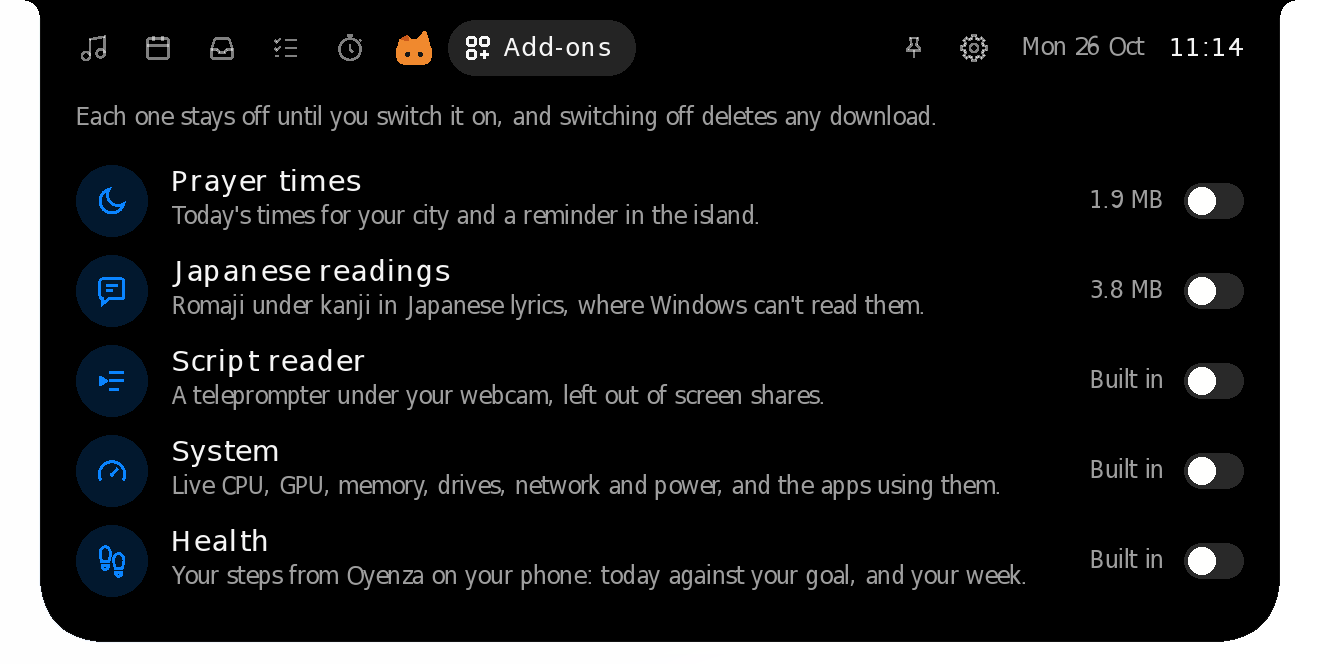
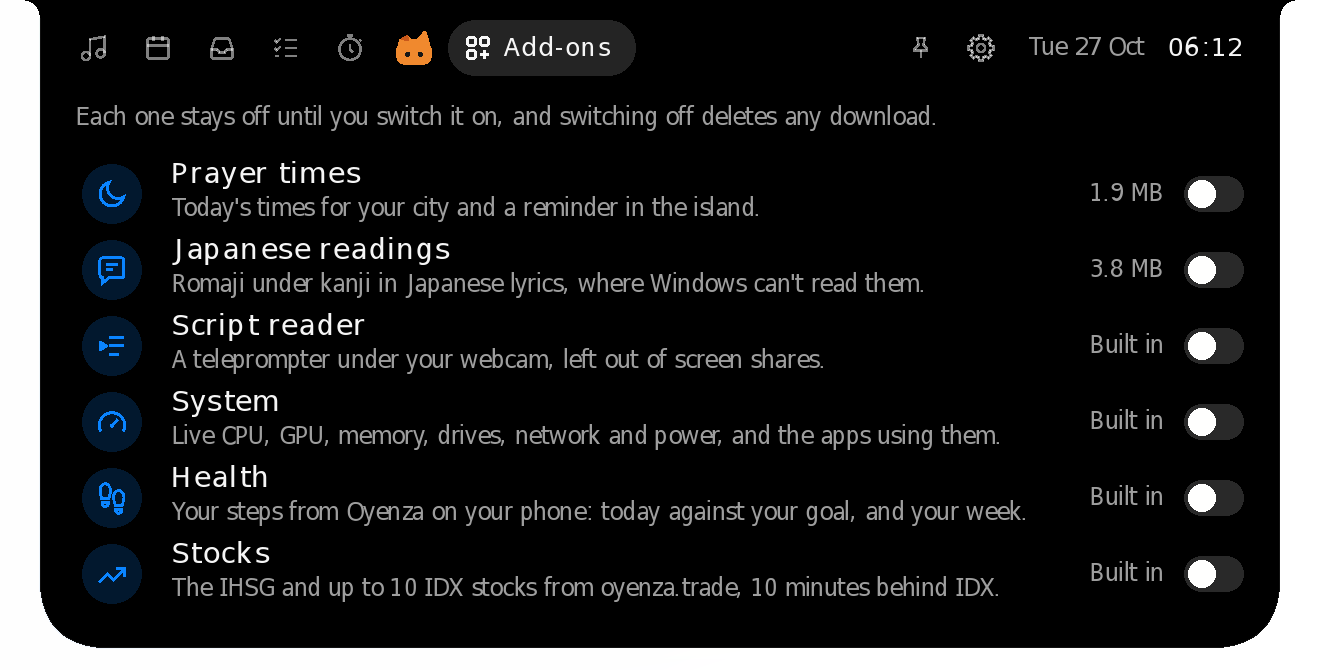
Release 0.2.11 (#136)
Version 0.2.11 in the seven version files, docs/release-notes/v0.2.11.md,
and the website: New in 0.2.11 with Stocks first, the hero line, the
fallback version and sizes (2.7 MB, 4.6 MB), a Stocks chapter with its
sidebar item (the sidebar's New tag moves there from Script reader, new in
0.2.1) and the Stocks page from main's own Mac renders (c0b64c7), Stocks
among the Add-ons chapter's built-in ones with both Add-ons pictures
retaken (200 % Wine self-test of main's own CI poni.exe), and a Stocks row
in Windows and Mac. tools/site_shots.py keeps the Mac Stocks page.

diff --git a/site/index.html b/site/index.html
@@ -589,6 +589,7 @@ dialog.more-sheet::backdrop { background: rgba(0, 0, 0, 0.42); -webkit-backdrop-
   <symbol id="i-clip" viewBox="0 0 24 24"><rect x="8" y="2.5" width="8" height="4" rx="1"/><path d="M16 4.5h2a2 2 0 0 1 2 2v13a2 2 0 0 1-2 2H6a2 2 0 0 1-2-2v-13a2 2 0 0 1 2-2h2"/></symbol>
   <symbol id="i-cal" viewBox="0 0 24 24"><rect x="3.5" y="5" width="17" height="15.5" rx="2.5"/><path d="M8 3v4M16 3v4M3.5 10h17"/></symbol>
   <symbol id="i-gauge" viewBox="0 0 24 24"><path d="m12 14 4-4"/><path d="M3.8 18.5a9.5 9.5 0 1 1 16.4 0"/></symbol>
+  <symbol id="i-stocks" viewBox="0 0 24 24"><path d="M3.5 17.5l5.5-5.5 4 4 7.5-7.5"/><path d="M15 8.5h5.5V14"/></symbol>
   <symbol id="i-gear" viewBox="0 0 24 24"><circle cx="12" cy="12" r="3"/><path d="M19.4 15a1.65 1.65 0 0 0 .33 1.82l.06.06a2 2 0 1 1-2.83 2.83l-.06-.06a1.65 1.65 0 0 0-1.82-.33 1.65 1.65 0 0 0-1 1.51V21a2 2 0 1 1-4 0v-.09A1.65 1.65 0 0 0 9 19.4a1.65 1.65 0 0 0-1.82.33l-.06.06a2 2 0 1 1-2.83-2.83l.06-.06A1.65 1.65 0 0 0 4.68 15a1.65 1.65 0 0 0-1.51-1H3a2 2 0 1 1 0-4h.09A1.65 1.65 0 0 0 4.6 9a1.65 1.65 0 0 0-.33-1.82l-.06-.06a2 2 0 1 1 2.83-2.83l.06.06A1.65 1.65 0 0 0 9 4.68a1.65 1.65 0 0 0 1-1.51V3a2 2 0 1 1 4 0v.09a1.65 1.65 0 0 0 1 1.51 1.65 1.65 0 0 0 1.82-.33l.06-.06a2 2 0 1 1 2.83 2.83l-.06.06A1.65 1.65 0 0 0 19.4 9a1.65 1.65 0 0 0 1.51 1H21a2 2 0 1 1 0 4h-.09a1.65 1.65 0 0 0-1.51 1z"/></symbol>
   <symbol id="i-phone" viewBox="0 0 24 24"><rect x="6" y="2.5" width="12" height="19" rx="3"/><path d="M11 18.5h2"/></symbol>
   <symbol id="i-waves" viewBox="0 0 24 24"><circle cx="12" cy="12" r="2"/><path d="M8 8a5.6 5.6 0 0 0 0 8M16 8a5.6 5.6 0 0 1 0 8M5 5a10 10 0 0 0 0 14M19 5a10 10 0 0 1 0 14"/></symbol>
@@ -633,7 +634,7 @@ dialog.more-sheet::backdrop { background: rgba(0, 0, 0, 0.42); -webkit-backdrop-
     <div class="side-sec">
       <p class="side-group">Overview</p>
       <a class="side-item" href="#top" data-k="home start download hero notch island"><i class="ic" style="--c:#1d1d1f"><svg class="ico"><use href="#i-screen"/></svg></i><span>A living notch</span></a>
-      <a class="side-item" href="#new" data-k="new release 0.2.10 latest changes today five weeks week ahead schedule month grid dots allow turn on prayer times anywhere world city mac youtube spotify browser now playing pill notch oyen oyenza tab system health add-ons clipboard history gone today your day google calendar gmail meeting join flights bills clipboard add-on touch screen tablet taps tap through notch eyes hide and seek macbook camera update available new version install now next start updater mac installer dmg window steps health oyenza sign in mac headphones full screen power island stays maximized windows sing along romaji lyrics mac prayer script reader teleprompter games power"><i class="ic" style="--c:#bf4800"><svg class="ico"><use href="#i-spark"/></svg></i><span>New in 0.2.10</span></a>
+      <a class="side-item" href="#new" data-k="new release 0.2.11 latest changes stocks ihsg idx saham watchlist chart oyenza.trade today five weeks week ahead schedule month grid dots allow turn on prayer times anywhere world city mac youtube spotify browser now playing pill notch oyen oyenza tab system health add-ons clipboard history gone today your day google calendar gmail meeting join flights bills clipboard add-on touch screen tablet taps tap through notch eyes hide and seek macbook camera update available new version install now next start updater mac installer dmg window steps health oyenza sign in mac headphones full screen power island stays maximized windows sing along romaji lyrics mac prayer script reader teleprompter games power"><i class="ic" style="--c:#bf4800"><svg class="ico"><use href="#i-spark"/></svg></i><span>New in 0.2.11</span></a>
       <a class="side-item" href="#highlights" data-k="best gallery overview"><i class="ic" style="--c:#ff9f0a"><svg class="ico"><use href="#i-spark"/></svg></i><span>Highlights</span></a>
       <a class="side-item" href="#features" data-k="rest idle music timer volume charging headphones bluetooth money clock eyes prayer countdown"><i class="ic" style="--c:#636366"><svg class="ico"><use href="#i-island"/></svg></i><span>While it rests</span></a>
     </div>
@@ -654,8 +655,9 @@ dialog.more-sheet::backdrop { background: rgba(0, 0, 0, 0.42); -webkit-backdrop-
       <a class="side-item" href="#phone-drop" data-k="phone drop qr iphone android wifi send files"><i class="ic" style="--c:#34c759"><svg class="ico"><use href="#i-phone"/></svg></i><span>Phone drop</span></a>
       <a class="side-item" href="#paired-phones" data-k="paired phones pair any network mobile data share sheet"><i class="ic" style="--c:#30b0c7"><svg class="ico"><use href="#i-waves"/></svg></i><span>Paired phones</span></a>
       <a class="side-item" href="#prayer" data-k="prayer sholat salat adzan kemenag qibla kiblat jadwal islam"><i class="ic" style="--c:#5e5ce6"><svg class="ico"><use href="#i-moon"/></svg></i><span>Prayer times</span></a>
+      <a class="side-item" href="#stocks" data-k="stocks ihsg idx saham shares watchlist market prices chart oyenza.trade bursa add-on new"><i class="ic" style="--c:#30d158"><svg class="ico"><use href="#i-stocks"/></svg></i><span>Stocks</span><span class="tag">New</span></a>
       <a class="side-item" href="#addons" data-k="add-ons addons download extras plugins"><i class="ic" style="--c:#ff9f0a"><svg class="ico"><use href="#i-addons"/></svg></i><span>Add-ons</span></a>
-      <a class="side-item" href="#script" data-k="script reader teleprompter prompter webcam camera read talk video new"><i class="ic" style="--c:#a2845e"><svg class="ico"><use href="#i-script"/></svg></i><span>Script reader</span><span class="tag">New</span></a>
+      <a class="side-item" href="#script" data-k="script reader teleprompter prompter webcam camera read talk video new"><i class="ic" style="--c:#a2845e"><svg class="ico"><use href="#i-script"/></svg></i><span>Script reader</span></a>
       <a class="side-item" href="#games" data-k="games fps gpu cpu overlay gaming frames readout peeks"><i class="ic" style="--c:#ff375f"><svg class="ico"><use href="#i-game"/></svg></i><span>Show over games</span></a>
       <a class="side-item" href="#on-top" data-k="full screen always on top stay hide maximized windows browser tabs chrome"><i class="ic" style="--c:#32ade6"><svg class="ico"><use href="#i-layers"/></svg></i><span>Stays on top</span></a>
     </div>
@@ -687,7 +689,7 @@ dialog.more-sheet::backdrop { background: rgba(0, 0, 0, 0.42); -webkit-backdrop-
     </div>
     <a class="side-me" data-release="notes" href="https://github.com/lucacadalora/oyenza-studio/releases/latest">
       <img src="brand/oyen-poni-logo.svg" alt="" width="30" height="30">
-      <span><b>Version <span data-release-copy="version">0.2.10</span></b><small>What's new on GitHub</small></span>
+      <span><b>Version <span data-release-copy="version">0.2.11</span></b><small>What's new on GitHub</small></span>
     </a>
   </div>
 </aside>
@@ -728,9 +730,9 @@ dialog.more-sheet::backdrop { background: rgba(0, 0, 0, 0.42); -webkit-backdrop-
           <div class="hero-copy">
             <h1 class="t-hero-eyebrow">Oyenza Studio</h1>
             <p class="t-hero">A living notch.</p>
-            <a class="t-avail" href="#new">New in 0.2.10: Today shows the next five weeks, and Prayer times work anywhere in the world.</a>
+            <a class="t-avail" href="#new">New in 0.2.11: Stocks, the IHSG and up to 10 IDX stocks on the island.</a>
             <div class="buybox">
-              <div><b>Free for Windows and Mac</b><span class="fine">Open source · Windows <span data-release="size">2.6&nbsp;MB</span> · Mac <span data-release="mac-size">4.4&nbsp;MB</span> · <a class="notes" data-release="notes" href="https://github.com/lucacadalora/oyenza-studio/releases/latest">What's new in <span data-release="version">0.2.10</span></a></span></div>
+              <div><b>Free for Windows and Mac</b><span class="fine">Open source · Windows <span data-release="size">2.7&nbsp;MB</span> · Mac <span data-release="mac-size">4.6&nbsp;MB</span> · <a class="notes" data-release="notes" href="https://github.com/lucacadalora/oyenza-studio/releases/latest">What's new in <span data-release="version">0.2.11</span></a></span></div>
               <a class="btn dl-primary" href="https://github.com/lucacadalora/oyenza-studio/releases/latest/download/Oyenza-Studio-Setup.exe">Download</a>
             </div>
             <a class="link hero-other dl-other" data-release="mac-link" href="https://github.com/lucacadalora/oyenza-studio/releases/latest/download/Oyenza-Studio-Mac.dmg">Download for Mac</a>
@@ -749,8 +751,9 @@ dialog.more-sheet::backdrop { background: rgba(0, 0, 0, 0.42); -webkit-backdrop-
   </section>
 
   <section class="sec band" id="new" aria-labelledby="new-title">
-    <div class="content head rv"><h2 class="t-l" id="new-title">New in 0.2.10.</h2></div>
+    <div class="content head rv"><h2 class="t-l" id="new-title">New in 0.2.11.</h2></div>
     <div class="content news">
+      <a class="news-tile rv" href="#stocks"><p class="t-card">Stocks</p><p class="t-tile">The IHSG and up to 10 IDX stocks, with the day's line and a chart over a day, a month or a year. From oyenza.trade, 10 minutes behind IDX.</p></a>
       <a class="news-tile rv" href="#today"><p class="t-card">Today shows the weeks ahead</p><p class="t-tile">Five weeks at a glance beside your schedule: the meeting on now with Join, then every day that has something. Click a date to jump there.</p></a>
       <a class="news-tile rv" href="#prayer"><p class="t-card">Prayer times anywhere</p><p class="t-tile">Type any city in the world, or let your location find it.</p></a>
       <a class="news-tile rv" href="#mac"><p class="t-card">YouTube and Spotify on the Mac</p><p class="t-tile">Music from your browser (YouTube, YouTube Music, Spotify on the web) and every other player on your Mac shows on the island, with lyrics.</p></a>
@@ -1107,6 +1110,25 @@ dialog.more-sheet::backdrop { background: rgba(0, 0, 0, 0.42); -webkit-backdrop-
     </div>
   </section>
 
+  <section class="sec" id="stocks" aria-labelledby="stocks-title">
+    <div class="content head rv">
+      <p class="t-label new">New in 0.2.11</p>
+      <h3 class="t-l" id="stocks-title">Stocks, on the island.</h3>
+      <p class="t-intro">The IHSG and up to 10 IDX stocks, laid out like Stocks on a Mac: <b>the day's line</b>, the price and the change, and a chart over a day, a month or a year.</p>
+    </div>
+    <div class="content">
+      <figure class="shot-card rv-zoom">
+        <img class="look-classic" src="assets/shots/mac/classic/page-stocks.webp" alt="The Stocks tab below a MacBook's notch: the IHSG, Bank BCA, Bank BRI, Bank Mandiri and Telkom on the left, each with its day's line, price and change, and the IHSG's day as a chart on the right" width="710" height="396" loading="lazy">
+        <img class="look-oyen" src="assets/shots/mac/oyen/page-stocks.webp" alt="The Stocks tab in the Oyen theme" width="710" height="396" loading="lazy">
+      </figure>
+      <div class="stats">
+        <div class="stat rv"><small>Your list</small><b>IHSG + 10</b><span>stocks, found by code or name. Edit removes and reorders them.</span></div>
+        <div class="stat rv"><small>Prices</small><b>10&nbsp;min</b><span>behind IDX, from oyenza.trade, asked only while the tab is open.</span></div>
+        <div class="stat rv"><small>An add-on</small><b>Built&nbsp;in</b><span>Nothing to download. Off, there's no Stocks tab at all.</span></div>
+      </div>
+    </div>
+  </section>
+
   <section class="sec" id="addons" aria-labelledby="addons-title">
     <div class="content split">
       <div class="head rv">
@@ -1116,14 +1138,14 @@ dialog.more-sheet::backdrop { background: rgba(0, 0, 0, 0.42); -webkit-backdrop-
         <div class="stats three">
           <div class="stat"><b>1.9&nbsp;MB</b><span>Prayer times</span></div>
           <div class="stat"><b>3.8&nbsp;MB</b><span>Japanese readings</span></div>
-          <div class="stat"><b>Built&nbsp;in</b><span>Script reader, System and Health</span></div>
+          <div class="stat"><b>Built&nbsp;in</b><span>Script reader, System, Health and Stocks</span></div>
         </div>
       </div>
       <div class="panel rv-zoom" data-scene="par" style="--band:28px">
         <div class="sky-layer"></div>
         <div class="isl">
-          <img class="look-classic" src="assets/shots/classic/page-addons.webp" alt="The Add-ons tab: Prayer times (1.9 MB), Japanese readings (3.8 MB), and Script reader, System and Health (built in), each with its switch off" width="660" height="332" loading="lazy">
-          <img class="look-oyen" src="assets/shots/oyen/page-addons.webp" alt="The Add-ons tab in the Oyen theme" width="660" height="332" loading="lazy">
+          <img class="look-classic" src="assets/shots/classic/page-addons.webp" alt="The Add-ons tab: Prayer times (1.9 MB), Japanese readings (3.8 MB), and Script reader, System, Health and Stocks (built in), each with its switch off" width="660" height="335" loading="lazy">
+          <img class="look-oyen" src="assets/shots/oyen/page-addons.webp" alt="The Add-ons tab in the Oyen theme" width="660" height="335" loading="lazy">
         </div>
       </div>
     </div>
@@ -1365,6 +1387,7 @@ dialog.more-sheet::backdrop { background: rgba(0, 0, 0, 0.42); -webkit-backdrop-
           <tr><th scope="row">Focus timer and tasks</th><td class="c yes"><svg viewBox="0 0 24 24" role="img" aria-label="Yes"><use href="#i-check"/></svg></td><td class="c yes"><svg viewBox="0 0 24 24" role="img" aria-label="Yes"><use href="#i-check"/></svg></td></tr>
           <tr><th scope="row">Shelf, with Phone drop over the same Wi-Fi</th><td class="c yes"><svg viewBox="0 0 24 24" role="img" aria-label="Yes"><use href="#i-check"/></svg></td><td class="c yes"><svg viewBox="0 0 24 24" role="img" aria-label="Yes"><use href="#i-check"/></svg></td></tr>
           <tr><th scope="row">System page, an add-on</th><td class="c yes"><svg viewBox="0 0 24 24" role="img" aria-label="Yes"><use href="#i-check"/></svg></td><td class="c yes"><svg viewBox="0 0 24 24" role="img" aria-label="Yes"><use href="#i-check"/></svg></td></tr>
+          <tr><th scope="row">Stocks, an add-on</th><td class="c yes"><svg viewBox="0 0 24 24" role="img" aria-label="Yes"><use href="#i-check"/></svg></td><td class="c yes"><svg viewBox="0 0 24 24" role="img" aria-label="Yes"><use href="#i-check"/></svg></td></tr>
           <tr><th scope="row">Volume and charging pop-ups</th><td class="c yes"><svg viewBox="0 0 24 24" role="img" aria-label="Yes"><use href="#i-check"/></svg></td><td class="c yes"><svg viewBox="0 0 24 24" role="img" aria-label="Yes"><use href="#i-check"/></svg></td></tr>
           <tr><th scope="row">Classic, Oyen, Glass and Pill</th><td class="c yes"><svg viewBox="0 0 24 24" role="img" aria-label="Yes"><use href="#i-check"/></svg></td><td class="c yes"><svg viewBox="0 0 24 24" role="img" aria-label="Yes"><use href="#i-check"/></svg></td></tr>
           <tr><th scope="row">Paired phones, from any network</th><td class="c yes"><svg viewBox="0 0 24 24" role="img" aria-label="Yes"><use href="#i-check"/></svg></td><td class="c no">Not yet</td></tr>
@@ -1421,8 +1444,8 @@ dialog.more-sheet::backdrop { background: rgba(0, 0, 0, 0.42); -webkit-backdrop-
         <div class="fact rv"><svg class="ico"><use href="#i-chip"/></svg><h3 class="t-card" style="font-size:21px;line-height:1.19">Light and smooth.</h3><p class="t-tile">Native Rust, no web view. Nothing drawn while nothing moves.</p></div>
       </div>
       <div class="specs rv">
-        <div class="spec"><b data-release-copy="size">2.6&nbsp;MB</b><span class="t-small">Windows installer</span></div>
-        <div class="spec"><b data-release-copy="mac-size">4.4&nbsp;MB</b><span class="t-small">Mac app</span></div>
+        <div class="spec"><b data-release-copy="size">2.7&nbsp;MB</b><span class="t-small">Windows installer</span></div>
+        <div class="spec"><b data-release-copy="mac-size">4.6&nbsp;MB</b><span class="t-small">Mac app</span></div>
         <div class="spec"><b>240&nbsp;Hz</b><span class="t-small">In step with your screen, on Windows</span></div>
         <div class="spec"><b>MIT</b><span class="t-small">Free and open source</span></div>
       </div>
@@ -1610,7 +1633,7 @@ dialog.more-sheet::backdrop { background: rgba(0, 0, 0, 0.42); -webkit-backdrop-
     </ul>
     <p><b>New in 0.2.1:</b> Japanese readings and Script reader are add-ons in the Mac's Add-ons tab, so the download is about a third of what it was.</p>
     <p><b>New in 0.2.3:</b> Prayer times, in the Mac's Add-ons tab: Location Services finds your city, or you type it, the adzan plays when it's time, and around the notch the countdown sits beside the camera.</p>
-    <p>macOS 14 or later, on Apple silicon or Intel. One app for both, <span data-release-copy="mac-size">4.4&nbsp;MB</span>. It isn't signed with an Apple Developer ID yet, so the first time, macOS holds it back until you allow it in Privacy &amp; Security.</p>
+    <p>macOS 14 or later, on Apple silicon or Intel. One app for both, <span data-release-copy="mac-size">4.6&nbsp;MB</span>. It isn't signed with an Apple Developer ID yet, so the first time, macOS holds it back until you allow it in Privacy &amp; Security.</p>
   </div>
 </dialog>
 <dialog class="more-sheet" id="m-oyenza" aria-labelledby="m-oyenza-t">

diff --git a/tools/site_shots.py b/tools/site_shots.py
@@ -106,7 +106,7 @@ GLASS_KEEP = {"light": {"page-media", "media-activity"}, "dark": {"page-media"},
 # Mac pictures, with the notch: the resting states sit in the menu bar's line,
 # cut to its middle (MAC_STRIP, in pixels at 200 %); the open pages hang below
 # the notch and are kept whole.
-MAC_KEEP = {"idle-clock", "media-activity", "timer-activity", "page-media", "page-today-day"}
+MAC_KEEP = {"idle-clock", "media-activity", "timer-activity", "page-media", "page-today-day", "page-stocks"}
 MAC_STRIP = (840, 136)
 # Pill on a Mac: what hangs below the notch (the line being sung, pop-ups) floats there, so its
 # strips are cut taller to keep the pill and its shadow; the resting island stays in the ears.

diff --git a/docs/release-notes/v0.2.11.md b/docs/release-notes/v0.2.11.md
@@ -1,0 +1,13 @@
+**Stocks, on the island.** A new add-on, built in and off until you switch it on in Add-ons (the **+** at the end of the tabs): the IHSG and up to 10 stocks on the Indonesia Stock Exchange, laid out the way Stocks is on a Mac. Each row has the day's line against the previous close, the price and a change pill; click any pill to switch them all between percent, points and market cap. Pick one for its chart over **1D, 1M, 6M or 1Y** (point at the chart to read any moment) and the day's open, high and low, volume, market cap, value traded and 52-week high and low. **Add a stock** searches every listed stock by code or name; **Edit** removes and reorders them.
+
+**Prices from oyenza.trade.** They run 10 minutes behind the exchange, like every free IDX feed, and the tab says where the market stands: open, at lunch, or closed with the day the prices are from. Oyenza Studio asks for them only while the Stocks tab is open and you're at your computer; with the add-on off, nothing is asked.
+
+Everything new in 0.2.10 is here too: Today shows the next five weeks, and Prayer times work anywhere in the world. See the [0.2.10 notes](https://github.com/lucacadalora/oyenza-studio/releases/tag/v0.2.10).
+
+**Install:** download `Oyenza-Studio-Setup.exe` and run it. It installs just for you (no admin rights) and can start with Windows. Or unzip the portable zip and run `Poni\poni.exe`. Links to `Oyen-Poni-Setup.exe` keep working: every release carries that file too.
+
+**On a Mac:** open `Oyenza-Studio-Mac.dmg` and drag Oyenza Studio into Applications. It isn't signed with an Apple Developer ID yet, so the first time macOS warns you, click **Done**, then open **System Settings → Privacy & Security** and click **Open Anyway**.
+
+**Upgrading:** on 0.2.6 to 0.2.10, the island says **Update available** within a few hours; on Windows, **Install now** in the Update sheet installs it for you. Or run the new installer. Either way it upgrades in place and keeps your settings, data, add-ons and Oyenza sign-in.
+
+The build isn't code-signed yet, so Windows SmartScreen may say "Windows protected your PC". Click **More info → Run anyway**.
